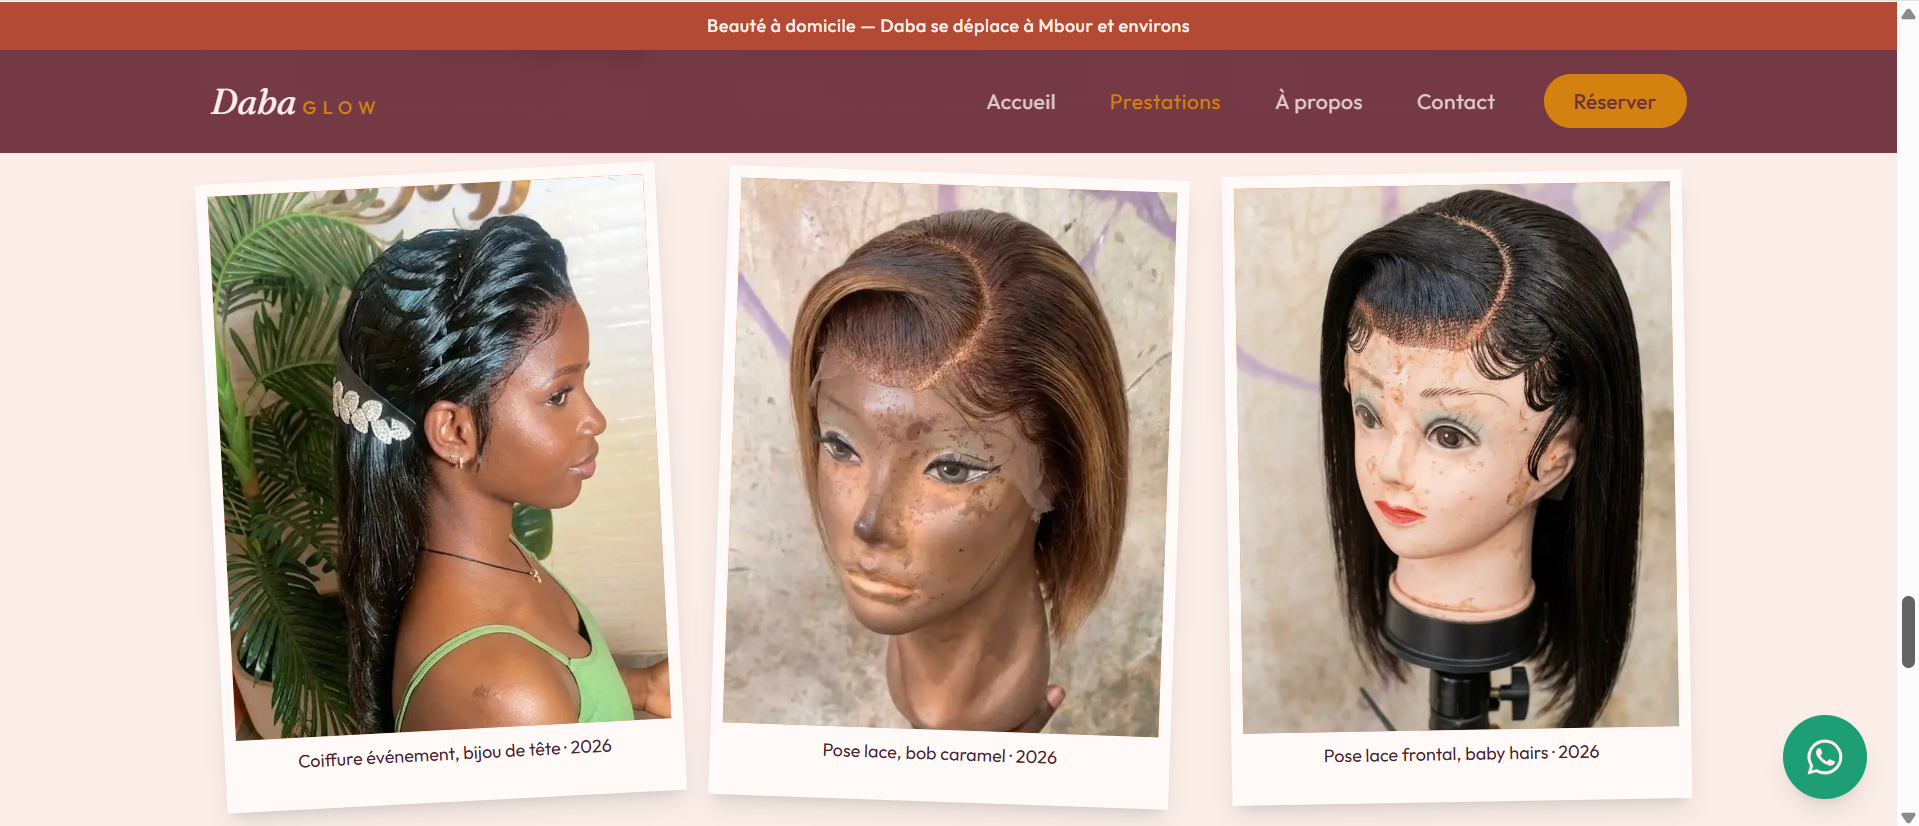
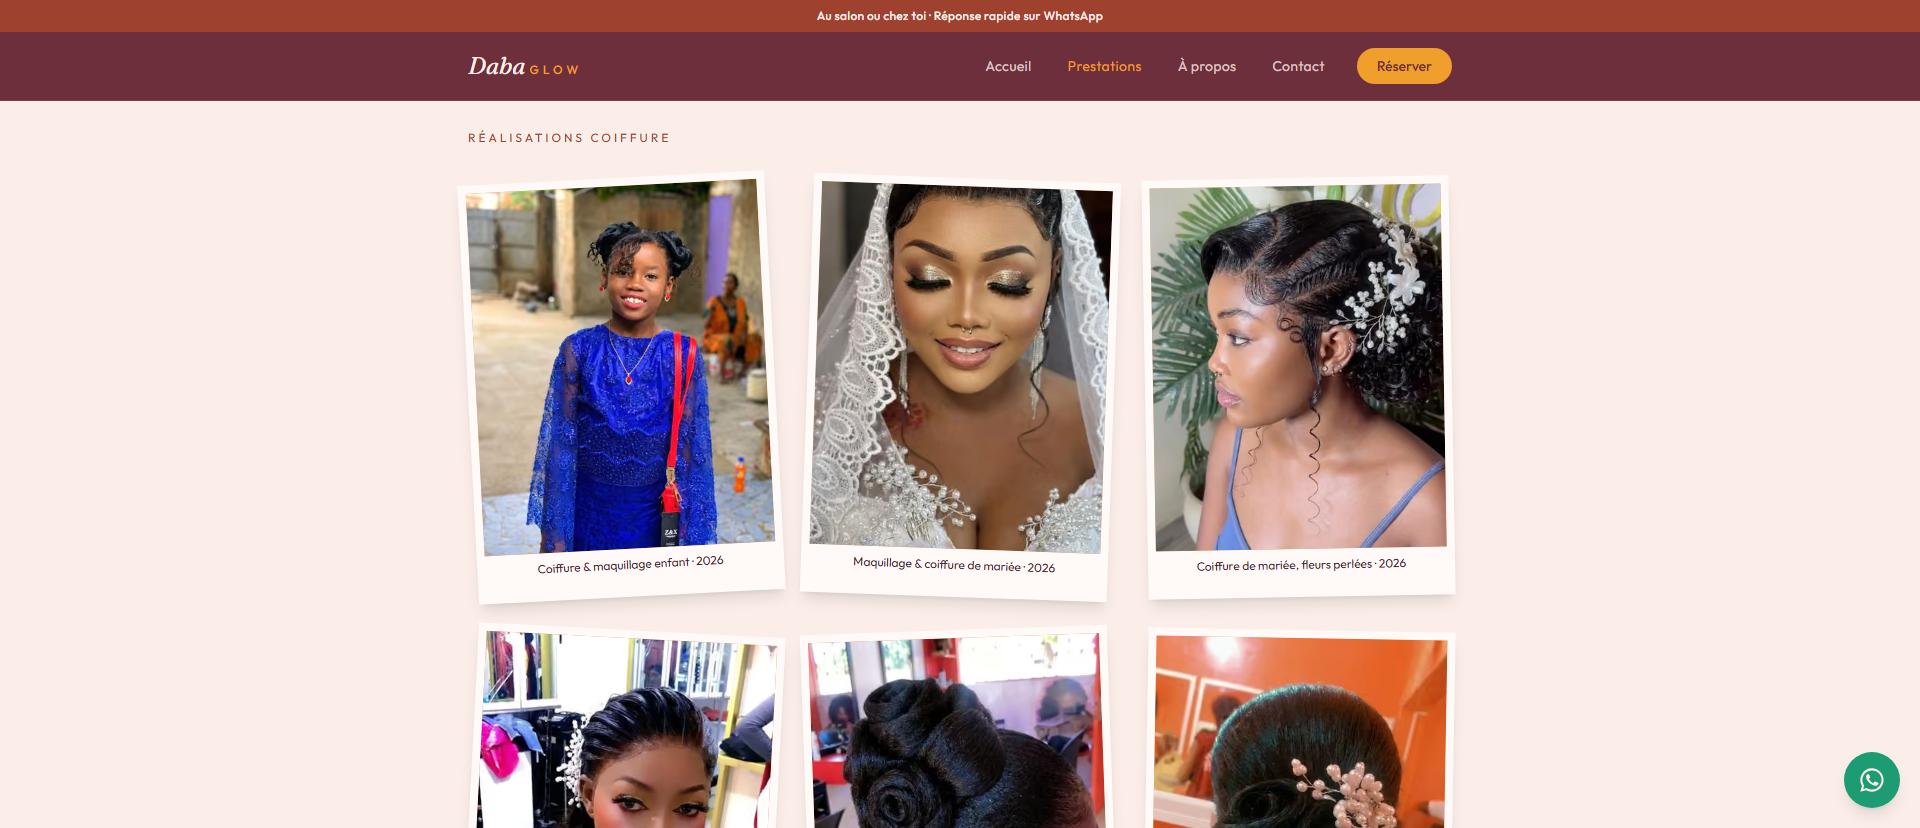
docs(readme): résultats mesurés, démarche et captures actuelles
- Captures refaites depuis la production (accueil, réalisations,
  prestations, portfolio) et 3 captures mobiles ajoutées (premier écran,
  galerie à points, menu).
- Tableau avant / après : axe 113 → 0, PageSpeed mobile 60-67 → 99-100
  (LCP 3,7 → 2,1 s), vulnérabilités de production 3 → 0, en-têtes de
  sécurité, tests 14 → 175 + 11 Playwright, couverture 14 → 92 %.
- Démarche (audit puis 16 pull requests), stack, commandes, contenu et
  composants mis à jour.

diff --git a/README.md b/README.md
@@ -1,44 +1,80 @@
-# ✨ Daba Glow — Site vitrine professionnel pour une activité de beauté, au salon et à domicile
+# ✨ Daba Glow — Site vitrine d'un salon de beauté, au salon et à domicile
 
-> Site web responsive conçu pour présenter les prestations de **Daba Glow**
-> (maquillage, manucure, coiffure, au salon ou à domicile) à Mbour, valoriser son
-> portfolio et faciliter la prise de contact via WhatsApp.
-> Direction artistique éditoriale : chocolat profond, doré, typographie
+> Site web conçu pour **Daba Glow**, une activité de maquillage, manucure et
+> coiffure à Darou Salam (Mbour, Sénégal), au salon ou à domicile. Objectif :
+> présenter les prestations et les réalisations, et permettre de réserver en un
+> geste sur WhatsApp, depuis un téléphone Android d'entrée de gamme.
+> Direction artistique éditoriale : bordeaux profond, doré, typographie
 > Fraunces italique.
 
-Développé avec **Next.js 16, TypeScript et Tailwind CSS v4**.
-
-Le projet a également été conçu comme un **template réutilisable pour les
-commerces et activités locales** : le contenu métier est séparé du code
-afin de permettre une adaptation rapide à un nouveau client.
+Développé avec **Next.js 16, React 19, TypeScript et Tailwind CSS v4**, testé
+avec **Vitest et Playwright**, déployé sur **Vercel**.
 
 > **🔗 Démo en ligne : [daba-glow.vercel.app](https://daba-glow.vercel.app/)**
-
-## 🧱 Stack technique
-
-| Technologie | Utilisation |
-|---|---|
-| Next.js 16 | Framework web et architecture de l'application |
-| TypeScript | Typage statique et sécurité du code |
-| Tailwind CSS v4 | Mise en forme et responsive design |
-| Vitest | Tests unitaires et validation du contenu |
-| GitHub Actions | Intégration continue |
-| Vercel | Déploiement |
-| WhatsApp | Canal de prise de contact |
 
 ## 🖼 Aperçu
 
 | Accueil | Réalisations coup de cœur |
 | :---: | :---: |
-| ![Page d'accueil de Daba Glow](screenshots/accueil.png) | ![Galerie des réalisations](screenshots/realisations.png) |
+| ![Page d'accueil de Daba Glow](screenshots/accueil.png) | ![Sélection des plus belles réalisations](screenshots/realisations.png) |
 
-Le portfolio par catégorie, en polaroïds — maquillage et coiffure :
-
-| Réalisations maquillage | Réalisations coiffure |
+| Prestations et réservation | Portfolio en polaroïds |
 | :---: | :---: |
-| ![Réalisations maquillage](screenshots/prestations-maquillage.png) | ![Réalisations coiffure](screenshots/prestations-coiffure.png) |
+| ![Prestations de maquillage et réalisations](screenshots/prestations-maquillage.png) | ![Réalisations de coiffure](screenshots/prestations-coiffure.png) |
+
+Sur mobile : le portrait et le bouton de réservation dans le premier écran,
+une photo entière par écran dans les galeries, un menu simple.
+
+| Premier écran | Galerie | Menu |
+| :---: | :---: | :---: |
+| ![Premier écran mobile](screenshots/mobile-accueil.png) | ![Galerie mobile, une photo à la fois avec des points](screenshots/mobile-galerie.png) | ![Menu mobile](screenshots/mobile-menu.png) |
+
+## 📊 Résultats mesurés
+
+Le site a fait l'objet d'un audit complet (code, sécurité, performance,
+accessibilité, SEO, design), puis de corrections livrées en 16 pull requests.
+
+| Mesure | Avant (audit, 12/11/2026) | Après (production, 16/11/2026) |
+|---|---|---|
+| Accessibilité (axe, 4 pages, mobile et desktop) | 113 éléments en violation | **0** |
+| PageSpeed Insights mobile, accueil | Lighthouse local : 60 à 67, LCP 3,7 s | **Performance 99 à 100, LCP médian 2,1 s** |
+| Vulnérabilités des dépendances de production | 3 (1 critique, 2 hautes) | **0** |
+| En-têtes de sécurité HTTP | HSTS seul (fourni par Vercel) | **+ CSP**, X-Frame-Options, X-Content-Type-Options, Referrer-Policy, Permissions-Policy |
+| Tests | 14 | **175** (Vitest) + **11** (Playwright) |
+| Couverture des lignes | 14 % | **92 %** |
+
+## 🧱 Stack technique
+
+| Technologie | Utilisation |
+|---|---|
+| Next.js 16 (App Router, pages statiques) | Framework et rendu |
+| React 19, TypeScript | Composants et typage strict |
+| Tailwind CSS v4 | Mise en forme, jetons de couleur, responsive |
+| Vitest 5, Testing Library | Tests unitaires et de composants, couverture |
+| Playwright, axe-core | Tests de bout en bout et d'accessibilité dans un vrai navigateur |
+| GitHub Actions | Intégration continue (Node 22) |
+| Vercel | Déploiement et prévisualisation de chaque pull request |
+| WhatsApp | Prise de contact et réservation (message pré-rempli) |
+
+## 🧭 Démarche
+
+1. **Audit** : 30 constats classés par gravité, chacun avec sa preuve (fichier et ligne, commande et sortie, capture ou mesure).
+2. **Corrections par lots** (16 pull requests), toujours dans le même ordre :
+   - branche dédiée ;
+   - maquettes avant tout changement visuel ;
+   - diff relu et validé, un commit par sujet ;
+   - lint, types, tests, build et axe à zéro ;
+   - 3 mesures PageSpeed sur la prévisualisation ;
+   - vérification de la production après la fusion.
+3. **Garde-fous permanents**, vérifiés à chaque lot :
+   - 0 violation d'accessibilité, LCP mobile sous 2,5 s ;
+   - contenu visible sans JavaScript, animations coupées avec `prefers-reduced-motion` ;
+   - aucune adresse exacte ni coordonnée GPS publiée ;
+   - un seul numéro pour WhatsApp et les appels.
 
 ## 🚀 Démarrer
+
+Node 22 (voir `.nvmrc`).
 
 ```bash
 npm install
@@ -48,56 +84,66 @@ npm run dev        # http://localhost:3000
 Autres commandes :
 
 ```bash
-npm test           # tests unitaires (Vitest)
-npm run lint       # ESLint
-npx tsc --noEmit   # vérification des types
-npm run build      # build de production
+npm test                 # tests unitaires (Vitest)
+npm run test:couverture  # tests + couverture (avec seuils)
+npm run test:e2e         # Playwright : construit et démarre le site, puis axe, CSP, premier écran mobile
+npm run lint             # ESLint
+npx tsc --noEmit         # vérification des types
+npm run build            # build de production
 ```
 
 ## 🧠 Architecture : séparer le contenu du code
 
-L'application sépare les données métier de la présentation. Les composants
-et les pages consomment les fichiers du dossier `content/`, ce qui permet de
-réutiliser la même base technique pour différents commerces sans modifier
-la logique de l'application.
+Les pages et les composants lisent leurs textes et leurs données dans le
+dossier `content/`. On peut donc changer un prix, une photo ou un texte sans
+toucher au code, et réutiliser la même base pour un autre commerce.
 
-| Fichier                   | Contenu                                           |
-| -------------------------- | -------------------------------------------------- |
-| `content/site.config.ts`  | Nom, slogan, **numéro (WhatsApp + appels)**, salon (quartier seul), réseaux, zone |
-| `content/prestations.ts`  | Prestations, descriptions, prix, durées           |
-| `content/realisations.ts` | Galerie : photos et vidéos TikTok                 |
-| `content/atouts.ts`       | Chiffres clés et atouts                           |
+| Fichier | Contenu |
+|---|---|
+| `content/site.config.ts` | Nom, accroche, **numéro (WhatsApp et appels)**, salon (quartier seul), zone, bandeau, horaires |
+| `content/prestations.ts` | Prestations, descriptions, prix, durées |
+| `content/realisations.ts` | Galerie : photos et vidéos TikTok |
+| `content/accueil.ts` | Héros et prestations « les plus demandées » |
+| `content/atouts.ts` | Chiffres clés et atouts |
+| `content/a-propos.ts`, `content/contact.ts`, `content/temoignages.ts` | Parcours, étapes de réservation, témoignages |
 
 ## 🧩 Composants signature
 
-- `Halo` — le portrait dans ses anneaux dorés pulsants (héro)
-- `Marquee` — bandeau défilant des prestations
-- `GalerieCategorie` — portfolio polaroïd d'une catégorie (photos + TikTok, lightbox clavier)
-- `GalerieApercu` — sélection "coup de cœur" mise en avant sur l'accueil
-- `TikTokEmbed` — vidéos TikTok en chargement différé (clic pour charger)
-- `Reveal` — apparition douce au scroll (IntersectionObserver, zéro dépendance)
+- `Halo` : le portrait dans son halo doré pulsant (héros).
+- Reflet doré sur « GLOW » : un éclat qui traverse le mot en boucle, en CSS seul.
+- `GalerieCategorie` et `GalerieApercu` : portfolio en polaroïds. Sur mobile, une photo entière par écran avec des points de repère (`DefilementPoints`) ; sur desktop, une grille.
+- `Lightbox` : visionneuse au clavier, focus piégé puis rendu au bouton d'origine.
+- `PrestationCard` : bouton « Réserver » qui ouvre WhatsApp avec un message pré-rempli pour cette prestation.
+- `TikTokEmbed` : vidéo chargée seulement au clic (façade avec vignette).
+- `Reveal` : apparition au défilement en CSS (`animation-timeline`), sans JavaScript.
 
-Accessibilité incluse : skip-link, focus visible, `prefers-reduced-motion`,
-navigation clavier.
+## ✅ Qualité, accessibilité, performance, sécurité
 
-## ✅ Qualité & tests
-
-- **TypeScript strict**, **ESLint** (config plate Next 16) et build : zéro erreur.
-- **Tests unitaires (Vitest)** sur le helper de formatage et surtout sur
-  **l'intégrité du contenu** : chaque prestation/réalisation a ses champs, des
-  clés uniques, une catégorie valide, et **chaque image référencée existe bien
-  dans `public/`**. Idéal pour un template : une faute de frappe dans un nom de
-  fichier est attrapée par la CI, pas par la visiteuse.
-- **Intégration continue** (GitHub Actions) : lint + types + tests + build à
-  chaque push et pull request (`.github/workflows/ci.yml`).
-- **Accessibilité** : skip-link, focus visible, navigation clavier (lightbox,
-  menu), `prefers-reduced-motion`, attributs ARIA sur les dialogues.
+- **Tests** :
+  - Vitest : intégrité du contenu (chaque image référencée existe), contrastes calculés depuis les jetons de couleur, rendu sans JavaScript, tutoiement, composants interactifs ;
+  - Playwright : axe sur 4 pages à 360 et 1440 px, aucune violation de la CSP, premier écran mobile entier.
+- **Intégration continue** à chaque push et pull request :
+  - audit des dépendances de production ;
+  - lint, types, tests avec seuils de couverture, build ;
+  - job Playwright.
+- **Accessibilité (WCAG 2.1 AA)** :
+  - contrastes vérifiés par les tests, contour de focus visible sur tous les fonds ;
+  - zones tactiles d'au moins 44 px, lien d'évitement ;
+  - `aria-current`, menu fermé par Échap, `prefers-reduced-motion` respecté.
+- **Performance** :
+  - contenu du premier écran visible sans JavaScript ;
+  - portrait en AVIF/WebP statiques, images dimensionnées (`sizes`) ;
+  - galeries rendues une seule fois, CSS intégrée au HTML ;
+  - JavaScript client réduit aux seuls composants interactifs.
+- **Sécurité** : politique de sécurité du contenu (CSP) stricte, `frame-ancestors 'none'`, en-têtes de sécurité, aucune dépendance vulnérable en production.
+- **SEO local** : données structurées `BeautySalon` (sans adresse exacte), URL canoniques, sitemap, Open Graph, manifeste avec icône 512 px « maskable ».
 
 ## 🔁 Réutiliser comme template
 
-Pour un nouveau commerce : dupliquer le projet, remplacer le dossier
-`content/`, ajuster les couleurs dans `app/globals.css` (`@theme`) et les
-polices dans `app/layout.tsx`. Le code ne change pas.
+Pour un nouveau commerce :
+1. dupliquer le projet et remplacer le dossier `content/` ;
+2. ajuster les couleurs dans `app/globals.css` (`@theme`) et les polices dans `app/layout.tsx` ;
+3. lancer `npm test` : les tests de contenu signalent une image manquante ou un champ oublié.
 
 ---
 
